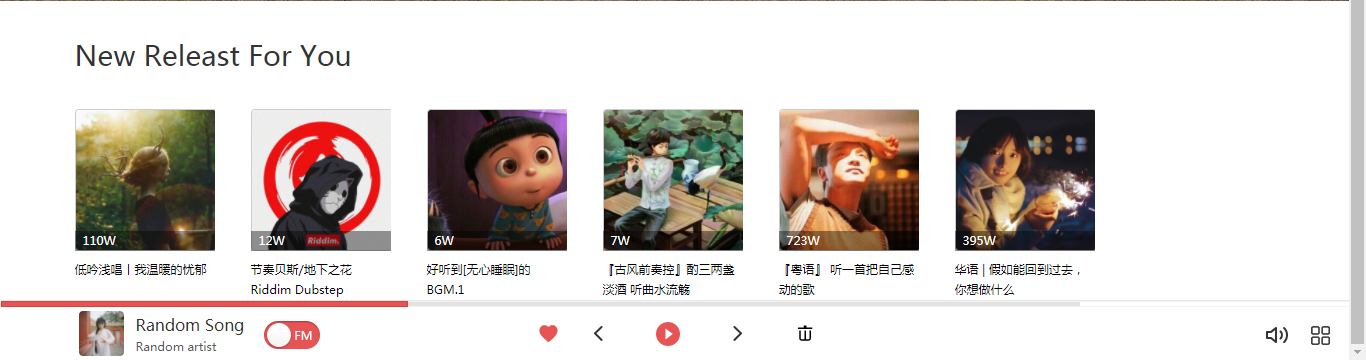
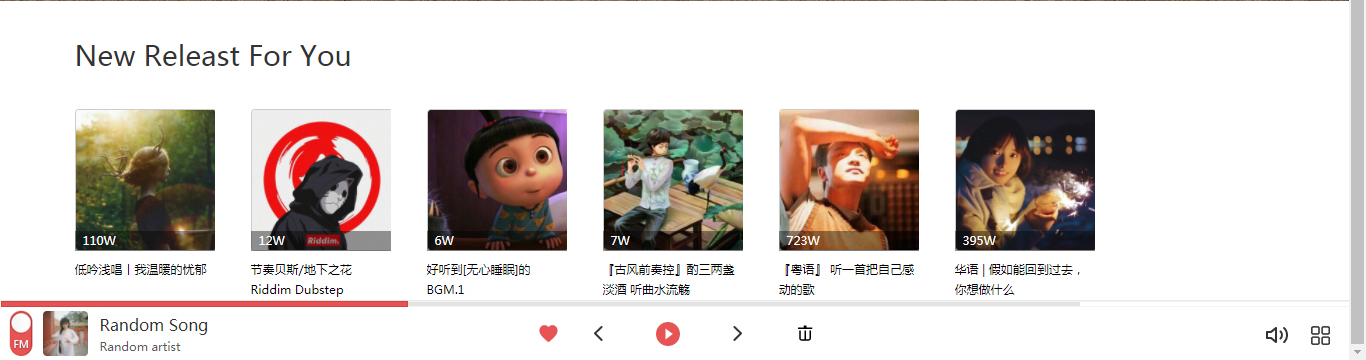
playbox

Changed region(s): [[0.0, 0.8556, 0.246, 1.0]]

diff --git a/src/app/redux/actions.js b/src/app/redux/actions.js
@@ -3,18 +3,47 @@ const fetch_config = {
   mode: "cors"
 };
 
-export function fetchAudio(song_id) {
+export function unshift_song_list(song_id) {
   return function(dispatch) {
-    dispatch({ type: "FETCHING_SONG" });
-    fetch(`http://localhost:3000/music/url?id=${song_id}`, {
-      method: "GET",
-      mode: "cors"
-    })
+    console.log(song_id);
+    // .songs["0"].name
+    // .songs["0"].al.name
+    // .songs["0"].al.picUrl
+    // .songs["0"].ar["0"].name
+
+    fetch(`http://localhost:3000/song/detail?ids=${song_id}`, fetch_config)
+      .then(res => res.json())
+      .then(data => {
+        console.log("song detail:", data);
+        let song = data.songs[0];
+        let { name, al, ar, id } = song;
+        ar = ar.map(artist => {
+          let { id, name } = artist;
+          return { id: id, name: name };
+        });
+        song = {
+          name: name,
+          al: al,
+          ar: ar,
+          id: id
+        };
+        dispatch({ type: "UNSHIFT_LIST", single: song });
+      });
+  };
+}
+
+export function fetchSingleSong(song_id) {
+  return function(dispatch) {
+    dispatch({ type: "FETCH_SONG" });
+    fetch(`http://localhost:3000/music/url?id=${song_id}`, fetch_config)
       .then(function(res) {
         return res.json();
       })
       .then(function(data) {
-        dispatch({ type: "RECIEVE_SONG_URL", url: data.data["0"].url });
+        console.log("single song:", data);
+        let url = data.data[0].url;
+        let id = data.data[0].id;
+        dispatch({ type: "RECIEVE_SONG_URL", url: url, id: id });
       })
       .catch(function(err) {
         dispatch({ type: "FETCH_SONG_ERR", err: err });
@@ -251,14 +280,3 @@ export function fetchArtistAlbum(ar_id) {
       });
   };
 }
-// .album.name
-// .album.picUrl
-// .album.size
-// .album.company
-// .songs
-// .songs["0"].id
-// .songs["0"].name
-// .songs["0"].mv
-// .songs["0"].dt
-// .songs["0"].ar["0"].id
-// .songs["0"].ar["0"].name

diff --git a/src/app/components/Playbox.js b/src/app/components/Playbox.js
@@ -1,6 +1,23 @@
 import React from "react";
+import { connect } from "react-redux";
+import { unshift_song_list, fetchSingleSong } from "../redux/actions";
 
+@connect(store => {
+  return {
+    Playbox: store.Playbox
+  };
+})
 export default class Playbox extends React.Component {
+  componentDidMount() {}
+
+  componentWillReceiveProps(nextProps) {
+    if (
+      nextProps.Playbox.curMusicId &&
+      nextProps.Playbox.curMusicId != this.props.Playbox.curMusicId
+    ) {
+      nextProps.dispatch(unshift_song_list(nextProps.Playbox.curMusicId));
+    }
+  }
   render() {
     return (
       <div id="playbox">
@@ -11,15 +28,20 @@ export default class Playbox extends React.Component {
         <div className="playbox_content">
           <div className="song_info">
             <div className="song_cover">
-              <img src="../static/images/bg.jpg" alt="" />
+              <img
+                src={this.props.Playbox.curMusicCover + "?param=45y45"}
+                alt=""
+              />
             </div>
             <div className="song_text">
-              <p className="song_name">Random Song</p>
-              <small className="song_artist">Random artist</small>
+              <p className="song_name">{this.props.Playbox.curMusicName}</p>
+              <small className="song_artist">
+                {this.props.Playbox.curMusicArtist}
+              </small>
             </div>
           </div>
           <div className="control_center">
-            <div className="btns shuffle">ISFM?</div>
+            <div className="btns isfm">ISFM?</div>
             <div className="btns like">LIKE</div>
             <div className="btns prev">PREV</div>
             <div className="btns play">PLAY</div>

diff --git a/src/app/pages/Playlist.js b/src/app/pages/Playlist.js
@@ -1,6 +1,6 @@
 import React from "react";
 import { connect } from "react-redux";
-import { fetchPlaylist, fetchAudio } from "../redux/actions";
+import { fetchPlaylist, fetchSingleSong } from "../redux/actions";
 import List from "../components/list";
 import StackBlur from "stackblur-canvas";
 import Header from "../components/Header";
@@ -9,7 +9,7 @@ import { Album, Album_info, Blur_bg, HotAlbums } from "../components/common";
 @connect(store => {
   return {
     playlist: store.playlist,
-    Audio: store.Audio
+    Playbox: store.Playbox
   };
 })
 export default class Playlist extends React.Component {
@@ -19,6 +19,7 @@ export default class Playlist extends React.Component {
   }
   blurHandler() {
     document.getElementById("blurImg").onload = function() {
+      console.log("1");
       StackBlur.image("blurImg", "album_blur_canvas", 10, false);
     };
   }
@@ -33,18 +34,15 @@ export default class Playlist extends React.Component {
       mode: "cors"
     })
       .then(res => res.json())
-      .then(data => {
-        console.log("data", data);
-      });
+      .then(data => {});
   }
   playHandler(e) {
     let song_id = e.currentTarget.getAttribute("data-id");
-    this.props.dispatch(fetchAudio(song_id));
+    this.props.dispatch(fetchSingleSong(song_id));
   }
   render() {
     return (
-      <div>
-        <Header />
+      <div className="root_content">
         <div className="playlist_content_wrap">
           <Album_info
             type="COLLECT"

diff --git a/src/app/redux/reducers.js b/src/app/redux/reducers.js
@@ -3,7 +3,7 @@ import initialState from "./initialState";
 
 export default combineReducers({
   searchlist: searchlistReducer,
-  Audio: AudioReducer,
+  Playbox: PlayboxReducer,
   user: userReducer,
   playlist: playlistReducer,
   album: albumReducer,
@@ -63,7 +63,7 @@ export function playlistReducer(state = initialState, action) {
   return state;
 }
 
-export function AudioReducer(state = initialState, action) {
+export function PlayboxReducer(state = initialState, action) {
   switch (action.type) {
     case "FETCH_SONG": {
       state = { ...state, fetching: true };
@@ -73,15 +73,26 @@ export function AudioReducer(state = initialState, action) {
         ...state,
         fetching: false,
         fetched: true,
-        targetURL: action.url
+        curMusicUrl: action.url,
+        curMusicId: action.id
       };
-      state.AudioDom.src = state.targetURL;
+      state.AudioDom.src = state.curMusicUrl;
       state.AudioDom.play();
       break;
     }
     case "FETCH_SONG_ERR": {
       state = { ...state, fetching: false, fetched: false, err: action.err };
       break;
+    }
+    case "UNSHIFT_LIST": {
+      state.curList.unshift(action.list);
+      state = {
+        ...state,
+        curMusicId: action.single.id,
+        curMusicName: action.single.name,
+        curMusicCover: action.single.al.picUrl,
+        curMusicArtist: action.single.ar[0].name
+      };
     }
   }
   return state;

diff --git a/src/app/pages/Album.js b/src/app/pages/Album.js
@@ -1,6 +1,10 @@
 import React from "react";
 import { connect } from "react-redux";
-import { fetchArtistAlbum, fetchAlbum, fetchAudio } from "../redux/actions";
+import {
+  fetchArtistAlbum,
+  fetchAlbum,
+  fetchSingleSong
+} from "../redux/actions";
 import List from "../components/list";
 import StackBlur from "stackblur-canvas";
 import Header from "../components/Header";
@@ -9,7 +13,7 @@ import { Album, Album_info, Blur_bg, HotAlbums } from "../components/common";
 @connect(store => {
   return {
     album: store.album,
-    Audio: store.Audio,
+    Playbox: store.Playbox,
     artist: store.artist
   };
 })
@@ -40,7 +44,7 @@ export default class AlbumPage extends React.Component {
 
   playHandler(e) {
     let song_id = e.currentTarget.getAttribute("data-id");
-    this.props.dispatch(fetchAudio(song_id));
+    this.props.dispatch(fetchSingleSong(song_id));
   }
   render() {
     let hotAlbumsView = <h1>Loading...</h1>;
@@ -48,8 +52,7 @@ export default class AlbumPage extends React.Component {
       hotAlbumsView = <HotAlbums artist_id={this.props.album.artistId} />;
     }
     return (
-      <div>
-        <Header />
+      <div className="root_content">
         <div className="album_content_wrap">
           <Album_info
             type="ALBUM"

diff --git a/src/app/routes/index.js b/src/app/routes/index.js
@@ -1,23 +1,25 @@
 import React from "react";
 import { HashRouter, Route, Switch, Link } from "react-router-dom";
 import Test from "../pages/test";
-import NoMatch from "../pages/NoMatch";
 import Search from "../pages/Search";
-import Playbox from "../pages/Playbox";
 import Login from "../pages/login";
 import Playlist from "../pages/Playlist";
 import Album from "../pages/Album";
 import IndexPage from "../pages/index";
+import Header from "../components/Header";
+import Playbox from "../components/Playbox";
+
 export class Routers extends React.Component {
   render() {
     return (
       <HashRouter>
         <main>
+          <Header />
+          <Playbox />
           <Switch>
             <Route exact path="/" component={IndexPage} />
             <Route path="/test" component={Test} />
             <Route path="/search" component={Search} />
-            <Route path="/playbox" component={Playbox} />
             <Route path="/login" component={Login} />
             <Route path="/playlist" component={Playlist} />
             <Route path="/album" component={Album} />

diff --git a/src/app/redux/initialState.js b/src/app/redux/initialState.js
@@ -11,12 +11,22 @@ function initialState() {
       songs: [],
       songCount: NaN
     },
-    Audio: {
+    Playbox: {
       AudioDom: AudioDom,
       fetching: false,
       fetched: false,
       err: null,
-      targetURL: ""
+      showlist: false,
+      curMusicUrl: "",
+      curMusicId: NaN,
+      curMusicCover: "",
+      curMusicName: "",
+      curMusicArtist: "",
+      isFm: false,
+      isPlaying: false,
+      curIndex: NaN,
+      volume: 1,
+      curList: []
     },
     user: {
       isLoged: false,

diff --git a/src/app/pages/index.js b/src/app/pages/index.js
@@ -14,11 +14,9 @@ import Playbox from "../components/Playbox";
 export default class IndexPage extends React.Component {
   render() {
     return (
-      <div>
-        <Header />
+      <div className="root_content">
         <Banner />
         <Recommand />
-        <Playbox />
       </div>
     );
   }

diff --git a/src/app/app.less b/src/app/app.less
@@ -1,4 +1,8 @@
-
+.root_content{
+	margin-bottom:60px;
+	height:auto;
+	overflow:hidden;
+}
 a{
 	text-decoration: none;
 	color:#000;

diff --git a/src/app/logic.md b/src/app/logic.md
@@ -1,0 +1,7 @@
+Playbox Logic
+
+fetch single song:
+专辑页面点击play或者+按钮，当前列表添加获取的单曲信息
+play：当即播放，unshift列表
++：shift列表
+
